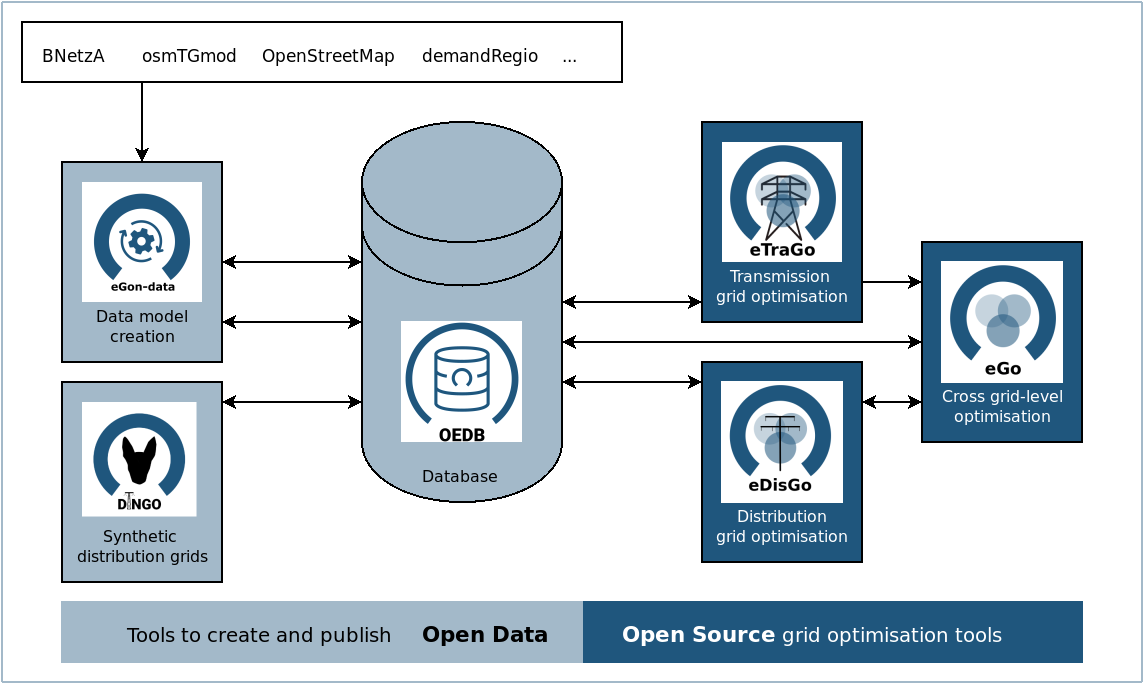
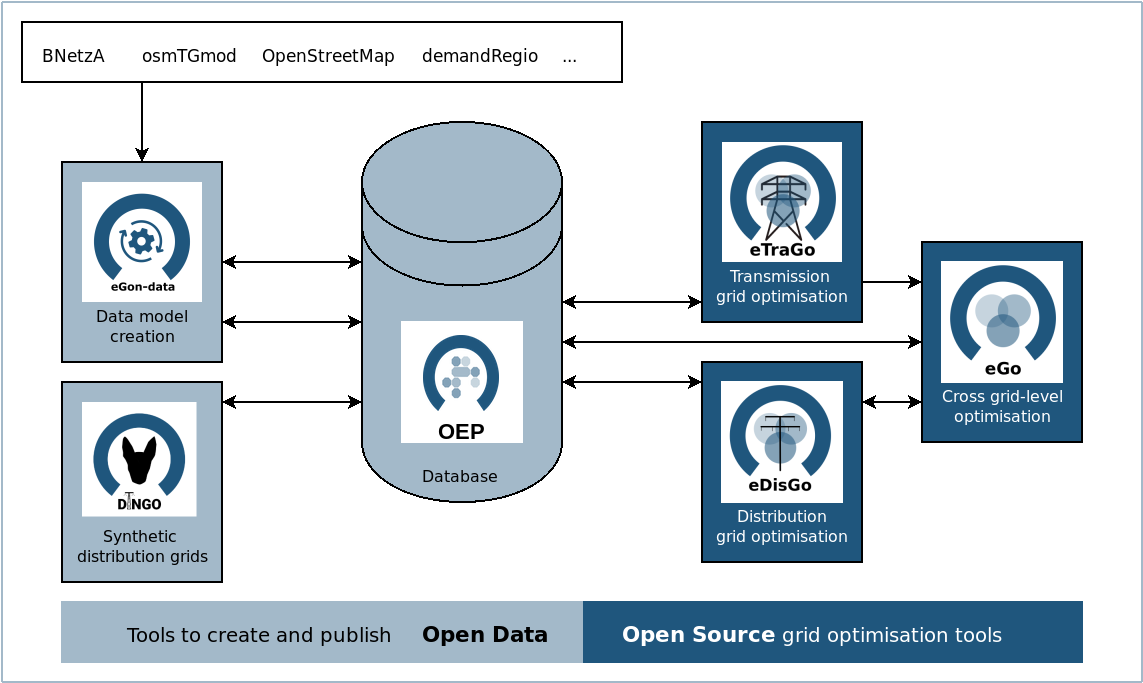
Polish content copy and fix spacing/heading inconsistencies across section pages
Content:
- Add <strong> emphasis to key phrases in use case and tool descriptions
- Update partner descriptions, URLs and rename "Industrial Partners" to
  "Practice Partners" section
- Fix typos and superscript formatting (reGo<sup>n</sup>) in various pages
- Add missing @import for publications.scss (was never compiled)

Design fixes:
- Fix paragraph break in homepage intro text that was collapsing into
  one block
- Redesign use case tiles to show large number + title instead of
  "Use Case N - Title"
- Fix vertical border-left overflowing past text in Use Cases intro
  (missing padding-bottom reset at desktop breakpoint)
- Normalize inconsistent section spacing on Network & Contact
  (heading-to-tiles gap, oversized header padding) and homepage
  (Funding section margin-top reduced from 8rem/10rem to 3rem/5rem)
- Increase page title (h1) size so it's consistently the dominant
  heading, fixing cases where section h2s rendered larger than the
  page title (most visible on Publications)
- Replace OEDB icon/label with OEP logo in the toolchain diagram
  (desktop PNG and mobile SVG)

Changed region(s): [[0.3368, 0.4612, 0.4593, 0.6457]]

diff --git a/_sass/foundation-components/_network_contact.scss b/_sass/foundation-components/_network_contact.scss
@@ -19,14 +19,14 @@
 
   .network-contact__header {
     @media only screen and (min-width: 641px) {
-      padding-bottom: 8rem;
+      padding-bottom: 2rem;
     }
 
     @media only screen and (min-width: 1025px) {
       display: flex;
       flex-wrap: wrap;
       justify-content: center;
-      padding-bottom: 10rem;
+      padding-bottom: 3rem;
     }
   }
 
@@ -44,10 +44,13 @@
       padding-top: 0;
       margin-top: 4rem;
       margin-bottom: 2rem;
-      padding-right: 1rem;
-      padding-left: 1rem;
-      border-left: 1px solid #dadada;
-      line-height: 2rem;
+
+      p {
+        padding-right: 1rem;
+        padding-left: 1rem;
+        border-left: 1px solid #dadada;
+        line-height: 2rem;
+      }
     }
   }
 
@@ -65,7 +68,7 @@
 
   .network-contact__partners-heading {
     text-align: center;
-    margin-bottom: .5rem;
+    margin-bottom: 1.5rem;
 
     h2 {
       color: #1F567D;

diff --git a/_includes/_use_cases.html b/_includes/_use_cases.html
@@ -4,7 +4,12 @@
       <div class="use_cases__item">
         <div class="use_cases__upper--helper"></div>
         <div class="use_cases__upper">
-          <h2 class="use_cases__name"><a href="#{{ uc.id }}">{{ uc.name }} - {{uc.title}}</a></h2>
+          <h2 class="use_cases__name">
+            <a href="#{{ uc.id }}">
+              <span class="use_cases__number">{{ uc.name | remove: "Use Case " }}</span>
+              <span class="use_cases__title">{{ uc.title }}</span>
+            </a>
+          </h2>
         </div>
         <div class="use_cases__bottom">
           <p class="use_cases__text">{{ uc.short | markdownify }}</p>

diff --git a/_sass/foundation-components/_use_cases.scss b/_sass/foundation-components/_use_cases.scss
@@ -46,6 +46,7 @@ $use_cases-card-margin-desktop: .75rem;
 
     @media only screen and (min-width: 1025px) {
       padding-top: 0;
+      padding-bottom: 0;
       margin-top: 4rem;
       margin-bottom: 2rem;
       padding-right: 1rem;
@@ -174,6 +175,23 @@ $use_cases-card-margin-desktop: .75rem;
   @media only screen and (max-width: 640px) {
     margin-bottom: 1.5rem;
   }
+
+  a {
+    display: block;
+  }
+}
+
+.use_cases__number {
+  display: block;
+  font-size: 3rem;
+  font-weight: 700;
+  line-height: 1;
+  color: #9a9a9a;
+}
+
+.use_cases__title {
+  display: block;
+  margin-top: .25rem;
 }
 
 .use_cases__upper {

diff --git a/_sass/foundation-components/_homepage.scss b/_sass/foundation-components/_homepage.scss
@@ -23,6 +23,7 @@ section.row.row__wrap {
 .hero {
     display: flex;
     flex-wrap: wrap;
+    align-items: center;
 }
 
 .hero h1.hero__header {
@@ -394,7 +395,7 @@ section.row.funding {
 
 @media only screen and (min-width: 641px) {
     section.row.funding {
-        margin-top: 5rem;
+        margin-top: 3rem;
         .funding__text p {
             max-width: 26rem;
             margin-left: auto;
@@ -406,7 +407,7 @@ section.row.funding {
 
 @media only screen and (min-width: 1025px) {
     section.row.funding {
-        margin-top: 8rem;
+        margin-top: 5rem;
     }
 }
 

diff --git a/_sass/foundation-components/_header.scss b/_sass/foundation-components/_header.scss
@@ -4,16 +4,16 @@
   margin: 0 auto;
 
   h1 {
-    font-size: 1.65rem;
+    font-size: 1.75rem;
     text-align: center;
 
     @media only screen and (min-width: 641px) {
-      font-size: 1.85rem;
+      font-size: 2.5rem;
       padding-top: 1rem;
     }
 
     @media only screen and (min-width: 1025px) {
-      font-size: 2rem;
+      font-size: 3rem;
       padding-top: 1rem;
     }
   }

diff --git a/_sass/foundation-components/_tools-data.scss b/_sass/foundation-components/_tools-data.scss
@@ -45,10 +45,13 @@
       padding-top: 0;
       margin-top: 4rem;
       margin-bottom: 2rem;
-      padding-right: 1rem;
-      padding-left: 1rem;
-      border-left: 1px solid #dadada;
-      line-height: 2rem;
+
+      p {
+        padding-right: 1rem;
+        padding-left: 1rem;
+        border-left: 1px solid #dadada;
+        line-height: 2rem;
+      }
     }
   }
 

diff --git a/assets/css/styles_feeling_responsive.scss b/assets/css/styles_feeling_responsive.scss
@@ -21,6 +21,7 @@ sitemap:
 @import "foundation-components/partner";
 @import "foundation-components/use_cases";
 @import "foundation-components/network_contact";
+@import "foundation-components/publications";
 @import "foundation-components/accordion";
 @import "foundation-components/alert-boxes";
 @import "foundation-components/breadcrumbs";

diff --git a/pages/pages-root-folder/index.md b/pages/pages-root-folder/index.md
@@ -22,19 +22,17 @@ European energy system</span>
     </div>
     <div class="hero__left large-7 columns">
       <p class="hero__subheader">
-        As renewable generation capacity expands and more energy sectors become electrified, the electrical grid is 
-        facing new challenges. Fluctuating renewable energy supply and shifting demand patterns caused by sector coupling are 
+        As renewable generation capacity expands and more energy sectors become electrified, the <strong>electrical grid is 
+        facing new challenges</strong>. Fluctuating renewable energy supply and shifting demand patterns caused by sector coupling are 
         changing the way the grid operates. At the same time, integrating non-electric sectors like gas, heat, and e-mobility 
-        opens up new opportunities for flexibility.
-        
-        Stakeholders like grid operators, policymakers, and plant and asset operators need to better understand both the impact 
-        of sector coupling on the grid and the emerging benefits of flexibility options in order to make informed decisions 
-        throughout the energy transformation. Therefore, we developed a comprehensive suite of open-source and open-data tools 
-        for modeling and planning electrical grids across all grid levels through the projects eGo<sup>n</sup> and <a href="https://openegoproject.wordpress.com" title="open_eGo">open_eGo</a>.
-        
-        The project reGon aims to bring those developments into real-world practice. In collaboration with a range of industry
-        partners, we're applying our software to five different use cases and actively fostering exchange between stakeholders
-        within our network.</p>
+        opens up new opportunities for flexibility. <strong>Stakeholders</strong> like grid operators, policymakers, and plant and asset operators need to <strong>better understand</strong> both the impact 
+        of sector coupling on the grid and the emerging benefits of flexibility options in order to <strong>make informed decisions</strong> 
+        throughout the energy transformation.</p>
+
+      <p class="hero__subheader">
+        Therefore, we developed a comprehensive suite of open-source and open-data tools for <strong> modeling and planning electrical grids across all grid levels</strong> through the projects eGo<sup>n</sup> and <a href="https://openegoproject.wordpress.com" title="open_eGo">open_eGo</a>. The project reGon aims to bring those developments into <strong>real-world practice</strong>. In <strong>collaboration with</strong> a range of <strong>practical 
+        partners</strong>, we're applying our software to <strong>five different use cases</strong> and actively <strong>fostering exchange</strong> between stakeholders
+        <strong>within our network</strong>.</p>
     </div>
     <div class="hero__right large-5 columns hero__img">
       <img src="{{ site.url }}/images/regon_logo_noborder_transbg.svg" alt="rego^n logo">
@@ -42,6 +40,7 @@ European energy system</span>
     <div class="hero__btns">
       <a href="/use_cases/" class="button hero__cta">SEE OUR USE CASES</a>
       <a href="/tools_data/" class="button hero__cta">SEE OUR TOOLS</a>
+      <a href="/network_contact/" class="button hero__cta">GET IN TOUCH</a>
     </div>
   </section>
 

diff --git a/pages/network+contact.md b/pages/network+contact.md
@@ -13,7 +13,7 @@ header: no
     <div class="columns network-contact__partners-heading">
     <h2>Network</h2>
       <div class="network-contact__subheading">
-        <p>The reGon project builds on more than a decade of collaborative research on open, cross-sectoral energy 
+        <p>The reGo<sup>n</sup> project builds on more than a decade of collaborative research on open, cross-sectoral energy 
            system modelling and grid planning tools. Since early 2025, the project consortium has been continuing and 
            extending developments initiated in the predecessor projects <a href="https://openegoproject.wordpress.com" title="open_eGo">open_eGo</a> (2015–2018) and eGon (2019–2023), with 
            the goal of transferring these open data models and optimisation tools into practical applications and 
@@ -45,7 +45,7 @@ header: no
     {% include _contact.html %}
 
     <div class="columns network-contact__partners-heading">
-      <h2>Industrial Partners</h2>
+      <h2>Practice Partners</h2>
     </div>
 
     {% include _industrial_partners.html %}

diff --git a/pages/tools+data.md b/pages/tools+data.md
@@ -54,7 +54,7 @@ coherent toolchain that now serves as the foundation for reGo<sup>n</sup>.</p>
         <h2 class="tools-data__oep-heading">WebApp</h2>
         <p class="tools-data__oep-text">
           Our WebApp provides an easy and illustrative access to our results from the project eGo<sup>n</sup>. 
-          The results from the reGo<sup>n</sup> will be added as the project progresses.
+          The results from reGo<sup>n</sup> will be added as the project progresses.
         </p>
         <div class="tools-data__oep-btn">
           <a href="https://egon.rl-institut.de" class="button" target="_blank">Visit WebApp</a>

diff --git a/pages/use_cases.md b/pages/use_cases.md
@@ -48,7 +48,7 @@ header: no
           </div>
           {% if uc.industrial_partners %}
           <div class="use-cases__detail-partners">
-            <h4>Industrial Partners:</h4>
+            <h4>Practice Partners:</h4>
             <div class="partners-grid">
               {% for industrial_partner_name in uc.industrial_partners %}
                 {% assign matched_partner = site.data._industrial_partners | where: "name", industrial_partner_name | first %}
